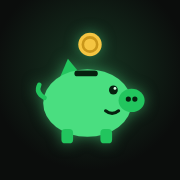
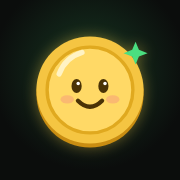
Lumi vira uma moedinha sorridente
Claude-Session: https://claude.ai/code/session_01RnZ8dbU9ozjLnU2fnSrsCq

diff --git a/index.html b/index.html
@@ -20,7 +20,7 @@
 
 <!-- LOGIN -->
 <div id="login" class="login hide">
-  <div class="orb l"><svg viewBox="0 0 100 100" xmlns="http://www.w3.org/2000/svg" aria-hidden="true"><circle cx="50" cy="15" r="9" fill="#f5c542"/><circle cx="50" cy="15" r="5.5" fill="none" stroke="#c9961a" stroke-width="2"/><path d="M27 40 L33 26 L42 37 Z" fill="#22c55e"/><ellipse cx="48" cy="60" rx="34" ry="26" fill="#4ade80"/><ellipse cx="82" cy="58" rx="10" ry="9" fill="#22c55e"/><circle cx="79.5" cy="57" r="2" fill="#06210f"/><circle cx="84.5" cy="57" r="2" fill="#06210f"/><circle cx="68" cy="50" r="3.4" fill="#06210f"/><circle cx="69.2" cy="48.8" r="1.1" fill="#d9ffe6"/><path d="M62 66 Q67 70 72 66" stroke="#06210f" stroke-width="2.4" fill="none" stroke-linecap="round"/><rect x="38" y="35" width="18" height="4.5" rx="2.25" fill="#06210f"/><path d="M15 56 Q8 52 11 46" stroke="#22c55e" stroke-width="3.5" fill="none" stroke-linecap="round"/><rect x="28" y="80" width="9" height="11" rx="3" fill="#22c55e"/><rect x="58" y="80" width="9" height="11" rx="3" fill="#22c55e"/></svg></div>
+  <div class="orb l"><svg viewBox="0 0 100 100" xmlns="http://www.w3.org/2000/svg" aria-hidden="true"><circle cx="50" cy="53" r="40" fill="#c98d12"/><circle cx="50" cy="50" r="40" fill="#f5c542"/><circle cx="50" cy="50" r="32" fill="#ffd966"/><circle cx="50" cy="50" r="32" fill="none" stroke="#e0a91f" stroke-width="2.5"/><path d="M27 38 A26 26 0 0 1 44 22" stroke="#fff3c4" stroke-width="4" fill="none" stroke-linecap="round"/><ellipse cx="40" cy="47" rx="3.8" ry="5.2" fill="#4a3205"/><ellipse cx="60" cy="47" rx="3.8" ry="5.2" fill="#4a3205"/><circle cx="41.2" cy="45.2" r="1.3" fill="#fff"/><circle cx="61.2" cy="45.2" r="1.3" fill="#fff"/><ellipse cx="33" cy="57" rx="5" ry="3" fill="#f59e7a" opacity=".55"/><ellipse cx="67" cy="57" rx="5" ry="3" fill="#f59e7a" opacity=".55"/><path d="M41 58 Q50 67 59 58" stroke="#4a3205" stroke-width="3.2" fill="none" stroke-linecap="round"/><path d="M84 14 L86.5 20 L93 22.5 L86.5 25 L84 31 L81.5 25 L75 22.5 L81.5 20 Z" fill="#4ade80"/></svg></div>
   <h1>Minhas Finanças</h1>
   <p class="sub" id="login-sub">Entre para ver suas contas.</p>
   <form id="login-form" autocomplete="on">
@@ -41,7 +41,7 @@
   <section id="v-inicio">
     <div class="topbar"><h1 id="ola">Olá!</h1><button class="iconbtn" id="b-config" aria-label="Configurações"><svg viewBox="0 0 24 24" fill="none" stroke="currentColor" stroke-width="2"><circle cx="12" cy="12" r="3"/><path d="M19.4 15a1.7 1.7 0 0 0 .3 1.8l.1.1a2 2 0 1 1-2.8 2.8l-.1-.1a1.7 1.7 0 0 0-1.8-.3 1.7 1.7 0 0 0-1 1.5V21a2 2 0 1 1-4 0v-.1a1.7 1.7 0 0 0-1.1-1.5 1.7 1.7 0 0 0-1.8.3l-.1.1a2 2 0 1 1-2.8-2.8l.1-.1a1.7 1.7 0 0 0 .3-1.8 1.7 1.7 0 0 0-1.5-1H3a2 2 0 1 1 0-4h.1a1.7 1.7 0 0 0 1.5-1.1 1.7 1.7 0 0 0-.3-1.8l-.1-.1a2 2 0 1 1 2.8-2.8l.1.1a1.7 1.7 0 0 0 1.8.3H9a1.7 1.7 0 0 0 1-1.5V3a2 2 0 1 1 4 0v.1a1.7 1.7 0 0 0 1 1.5 1.7 1.7 0 0 0 1.8-.3l.1-.1a2 2 0 1 1 2.8 2.8l-.1.1a1.7 1.7 0 0 0-.3 1.8V9a1.7 1.7 0 0 0 1.5 1H21a2 2 0 1 1 0 4h-.1a1.7 1.7 0 0 0-1.5 1z"/></svg></button></div>
     <p class="sub" id="hoje"></p>
-    <button class="ask" id="b-ask"><div class="orb m"><svg viewBox="0 0 100 100" xmlns="http://www.w3.org/2000/svg" aria-hidden="true"><circle cx="50" cy="15" r="9" fill="#f5c542"/><circle cx="50" cy="15" r="5.5" fill="none" stroke="#c9961a" stroke-width="2"/><path d="M27 40 L33 26 L42 37 Z" fill="#22c55e"/><ellipse cx="48" cy="60" rx="34" ry="26" fill="#4ade80"/><ellipse cx="82" cy="58" rx="10" ry="9" fill="#22c55e"/><circle cx="79.5" cy="57" r="2" fill="#06210f"/><circle cx="84.5" cy="57" r="2" fill="#06210f"/><circle cx="68" cy="50" r="3.4" fill="#06210f"/><circle cx="69.2" cy="48.8" r="1.1" fill="#d9ffe6"/><path d="M62 66 Q67 70 72 66" stroke="#06210f" stroke-width="2.4" fill="none" stroke-linecap="round"/><rect x="38" y="35" width="18" height="4.5" rx="2.25" fill="#06210f"/><path d="M15 56 Q8 52 11 46" stroke="#22c55e" stroke-width="3.5" fill="none" stroke-linecap="round"/><rect x="28" y="80" width="9" height="11" rx="3" fill="#22c55e"/><rect x="58" y="80" width="9" height="11" rx="3" fill="#22c55e"/></svg></div><div class="q"><b>Pergunte para a <span class="nome-assist">Lumi</span></b><span>"Qual meu saldo?" · "Gastei 20 no café"</span></div><svg width="20" height="20" viewBox="0 0 24 24" fill="none" stroke="currentColor" stroke-width="2"><path d="M9 6l6 6-6 6"/></svg></button>
+    <button class="ask" id="b-ask"><div class="orb m"><svg viewBox="0 0 100 100" xmlns="http://www.w3.org/2000/svg" aria-hidden="true"><circle cx="50" cy="53" r="40" fill="#c98d12"/><circle cx="50" cy="50" r="40" fill="#f5c542"/><circle cx="50" cy="50" r="32" fill="#ffd966"/><circle cx="50" cy="50" r="32" fill="none" stroke="#e0a91f" stroke-width="2.5"/><path d="M27 38 A26 26 0 0 1 44 22" stroke="#fff3c4" stroke-width="4" fill="none" stroke-linecap="round"/><ellipse cx="40" cy="47" rx="3.8" ry="5.2" fill="#4a3205"/><ellipse cx="60" cy="47" rx="3.8" ry="5.2" fill="#4a3205"/><circle cx="41.2" cy="45.2" r="1.3" fill="#fff"/><circle cx="61.2" cy="45.2" r="1.3" fill="#fff"/><ellipse cx="33" cy="57" rx="5" ry="3" fill="#f59e7a" opacity=".55"/><ellipse cx="67" cy="57" rx="5" ry="3" fill="#f59e7a" opacity=".55"/><path d="M41 58 Q50 67 59 58" stroke="#4a3205" stroke-width="3.2" fill="none" stroke-linecap="round"/><path d="M84 14 L86.5 20 L93 22.5 L86.5 25 L84 31 L81.5 25 L75 22.5 L81.5 20 Z" fill="#4ade80"/></svg></div><div class="q"><b>Pergunte para a <span class="nome-assist">Lumi</span></b><span>"Qual meu saldo?" · "Gastei 20 no café"</span></div><svg width="20" height="20" viewBox="0 0 24 24" fill="none" stroke="currentColor" stroke-width="2"><path d="M9 6l6 6-6 6"/></svg></button>
     <div id="aviso-notif"></div>
     <div class="grid">
       <div class="card stat big hero"><div class="lbl">Patrimônio (guardado + investido)</div><div class="val" id="s-patr">—</div></div>
@@ -122,7 +122,7 @@
 <section class="full" id="lancar" aria-label="Lançar">
   <div class="head"><button class="small" id="l-mais">Mais detalhes</button><button class="x" id="l-x" aria-label="Fechar">✕</button></div>
   <div class="top">
-    <div class="orb m"><svg viewBox="0 0 100 100" xmlns="http://www.w3.org/2000/svg" aria-hidden="true"><circle cx="50" cy="15" r="9" fill="#f5c542"/><circle cx="50" cy="15" r="5.5" fill="none" stroke="#c9961a" stroke-width="2"/><path d="M27 40 L33 26 L42 37 Z" fill="#22c55e"/><ellipse cx="48" cy="60" rx="34" ry="26" fill="#4ade80"/><ellipse cx="82" cy="58" rx="10" ry="9" fill="#22c55e"/><circle cx="79.5" cy="57" r="2" fill="#06210f"/><circle cx="84.5" cy="57" r="2" fill="#06210f"/><circle cx="68" cy="50" r="3.4" fill="#06210f"/><circle cx="69.2" cy="48.8" r="1.1" fill="#d9ffe6"/><path d="M62 66 Q67 70 72 66" stroke="#06210f" stroke-width="2.4" fill="none" stroke-linecap="round"/><rect x="38" y="35" width="18" height="4.5" rx="2.25" fill="#06210f"/><path d="M15 56 Q8 52 11 46" stroke="#22c55e" stroke-width="3.5" fill="none" stroke-linecap="round"/><rect x="28" y="80" width="9" height="11" rx="3" fill="#22c55e"/><rect x="58" y="80" width="9" height="11" rx="3" fill="#22c55e"/></svg></div>
+    <div class="orb m"><svg viewBox="0 0 100 100" xmlns="http://www.w3.org/2000/svg" aria-hidden="true"><circle cx="50" cy="53" r="40" fill="#c98d12"/><circle cx="50" cy="50" r="40" fill="#f5c542"/><circle cx="50" cy="50" r="32" fill="#ffd966"/><circle cx="50" cy="50" r="32" fill="none" stroke="#e0a91f" stroke-width="2.5"/><path d="M27 38 A26 26 0 0 1 44 22" stroke="#fff3c4" stroke-width="4" fill="none" stroke-linecap="round"/><ellipse cx="40" cy="47" rx="3.8" ry="5.2" fill="#4a3205"/><ellipse cx="60" cy="47" rx="3.8" ry="5.2" fill="#4a3205"/><circle cx="41.2" cy="45.2" r="1.3" fill="#fff"/><circle cx="61.2" cy="45.2" r="1.3" fill="#fff"/><ellipse cx="33" cy="57" rx="5" ry="3" fill="#f59e7a" opacity=".55"/><ellipse cx="67" cy="57" rx="5" ry="3" fill="#f59e7a" opacity=".55"/><path d="M41 58 Q50 67 59 58" stroke="#4a3205" stroke-width="3.2" fill="none" stroke-linecap="round"/><path d="M84 14 L86.5 20 L93 22.5 L86.5 25 L84 31 L81.5 25 L75 22.5 L81.5 20 Z" fill="#4ade80"/></svg></div>
     <div class="tipo"><button class="saida on" data-tipo="gasto">Saída</button><button class="entrada" data-tipo="entrada">Entrada</button></div>
     <div class="quanto">Quanto foi?</div>
     <div class="valor zero" id="l-valor">$0.00</div>
@@ -142,7 +142,7 @@
 
 <!-- ASSISTENTE -->
 <section class="full" id="chat" aria-label="Assistente">
-  <div class="head"><div class="who"><div class="orb s"><svg viewBox="0 0 100 100" xmlns="http://www.w3.org/2000/svg" aria-hidden="true"><circle cx="50" cy="15" r="9" fill="#f5c542"/><circle cx="50" cy="15" r="5.5" fill="none" stroke="#c9961a" stroke-width="2"/><path d="M27 40 L33 26 L42 37 Z" fill="#22c55e"/><ellipse cx="48" cy="60" rx="34" ry="26" fill="#4ade80"/><ellipse cx="82" cy="58" rx="10" ry="9" fill="#22c55e"/><circle cx="79.5" cy="57" r="2" fill="#06210f"/><circle cx="84.5" cy="57" r="2" fill="#06210f"/><circle cx="68" cy="50" r="3.4" fill="#06210f"/><circle cx="69.2" cy="48.8" r="1.1" fill="#d9ffe6"/><path d="M62 66 Q67 70 72 66" stroke="#06210f" stroke-width="2.4" fill="none" stroke-linecap="round"/><rect x="38" y="35" width="18" height="4.5" rx="2.25" fill="#06210f"/><path d="M15 56 Q8 52 11 46" stroke="#22c55e" stroke-width="3.5" fill="none" stroke-linecap="round"/><rect x="28" y="80" width="9" height="11" rx="3" fill="#22c55e"/><rect x="58" y="80" width="9" height="11" rx="3" fill="#22c55e"/></svg></div><div><b class="nome-assist">Lumi</b><span>sua assistente de finanças</span></div></div><button class="x" id="c-x" aria-label="Fechar">✕</button></div>
+  <div class="head"><div class="who"><div class="orb s"><svg viewBox="0 0 100 100" xmlns="http://www.w3.org/2000/svg" aria-hidden="true"><circle cx="50" cy="53" r="40" fill="#c98d12"/><circle cx="50" cy="50" r="40" fill="#f5c542"/><circle cx="50" cy="50" r="32" fill="#ffd966"/><circle cx="50" cy="50" r="32" fill="none" stroke="#e0a91f" stroke-width="2.5"/><path d="M27 38 A26 26 0 0 1 44 22" stroke="#fff3c4" stroke-width="4" fill="none" stroke-linecap="round"/><ellipse cx="40" cy="47" rx="3.8" ry="5.2" fill="#4a3205"/><ellipse cx="60" cy="47" rx="3.8" ry="5.2" fill="#4a3205"/><circle cx="41.2" cy="45.2" r="1.3" fill="#fff"/><circle cx="61.2" cy="45.2" r="1.3" fill="#fff"/><ellipse cx="33" cy="57" rx="5" ry="3" fill="#f59e7a" opacity=".55"/><ellipse cx="67" cy="57" rx="5" ry="3" fill="#f59e7a" opacity=".55"/><path d="M41 58 Q50 67 59 58" stroke="#4a3205" stroke-width="3.2" fill="none" stroke-linecap="round"/><path d="M84 14 L86.5 20 L93 22.5 L86.5 25 L84 31 L81.5 25 L75 22.5 L81.5 20 Z" fill="#4ade80"/></svg></div><div><b class="nome-assist">Lumi</b><span>sua assistente de finanças</span></div></div><button class="x" id="c-x" aria-label="Fechar">✕</button></div>
   <div class="msgs" id="c-msgs"></div>
   <div class="sugs" id="c-sugs"></div>
   <form class="compose" id="c-form"><input id="c-in" placeholder="Pergunte ou anote um gasto…" autocomplete="off" enterkeyhint="send"><button aria-label="Enviar">↑</button></form>

diff --git a/styles.css b/styles.css
@@ -57,9 +57,9 @@ h2{font-size:13px;margin:24px 0 10px;color:var(--muted);font-weight:600;text-tra
 .ask .q b{display:block;font-size:15px}
 .ask .q span{font-size:13px;color:var(--muted)}
 
-/* Mascote: cofrinho */
+/* Mascote: moedinha */
 .orb{position:relative;flex-shrink:0;display:block}
-.orb svg{width:100%;height:100%;display:block;filter:drop-shadow(0 0 10px rgba(74,222,128,.45)) drop-shadow(0 0 26px rgba(74,222,128,.18))}
+.orb svg{width:100%;height:100%;display:block;filter:drop-shadow(0 0 10px rgba(245,197,66,.35)) drop-shadow(0 0 26px rgba(74,222,128,.18))}
 .orb.s{width:42px;height:42px}
 .orb.m{width:52px;height:52px}
 .orb.l{width:120px;height:120px}

diff --git a/sw.js b/sw.js
@@ -1,5 +1,5 @@
 // Service worker: deixa o app abrir rápido e recebe as notificações.
-const CACHE = "financas-v3";
+const CACHE = "financas-v4";
 const SHELL = ["./", "./index.html", "./styles.css", "./app.js", "./firebase-config.js", "./manifest.webmanifest", "./icons/icon-192.png"];
 
 self.addEventListener("install", e => {
